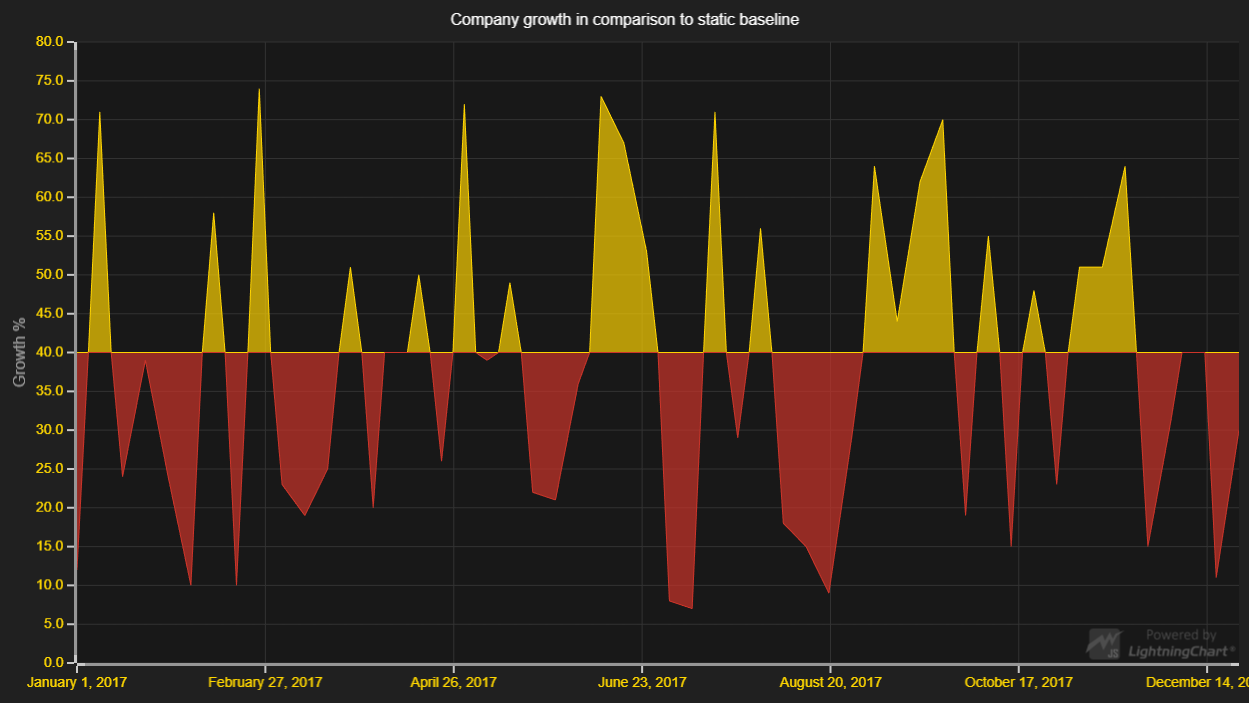
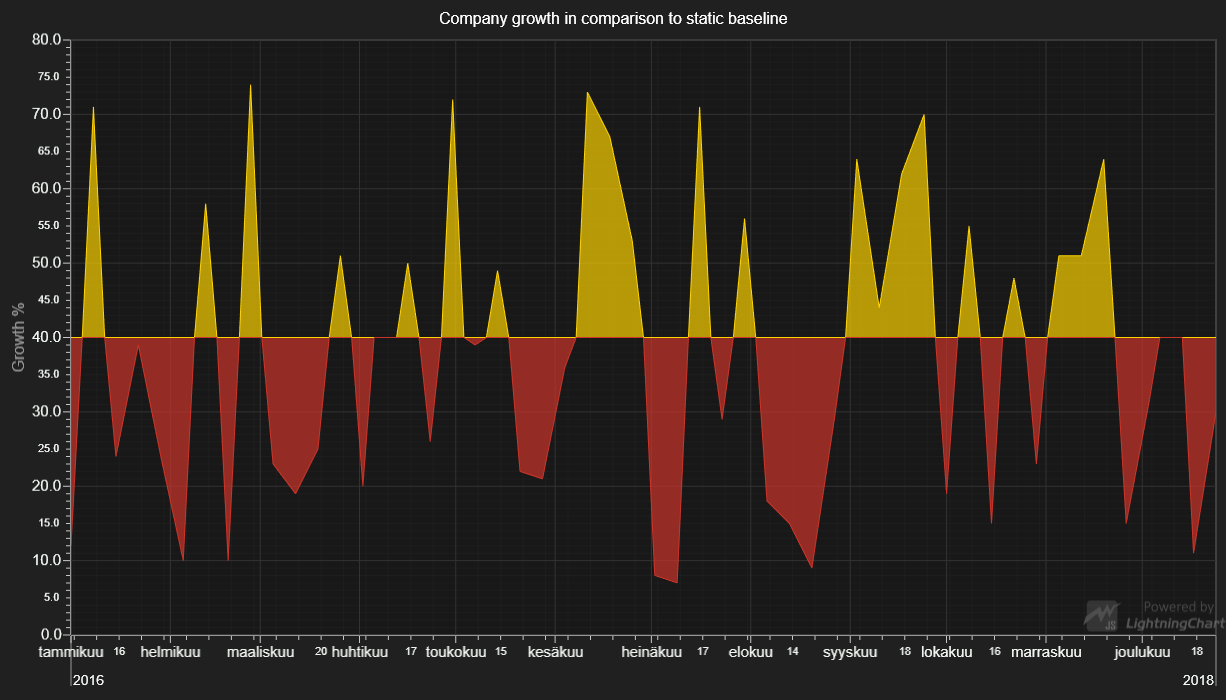
LCJS 2.0.0

diff --git a/src/index.js b/src/index.js
@@ -14,19 +14,20 @@ const {
     AreaSeriesTypes,
     AxisScrollStrategies,
     AxisTickStrategies,
-    AutoCursorModes
+    AutoCursorModes,
+    Themes
 } = lcjs
 
 // Decide on an origin for DateTime axis.
 const dateOrigin = new Date(2017, 0, 1)
 
 // Create a XY Chart.
-const xyChart = lightningChart()
-    .ChartXY({
-        defaultAxisXTickStrategy: AxisTickStrategies.DateTime(dateOrigin),
-    })
-    .setTitle('Company growth in comparison to static baseline')
-    .setAutoCursorMode(AutoCursorModes.onHover)
+const xyChart = lightningChart().ChartXY({
+    // theme: Themes.dark
+})
+xyChart.getDefaultAxisX().setTickStrategy(AxisTickStrategies.DateTime, (tickStrategy) => tickStrategy.setDateOrigin(dateOrigin))
+xyChart.setTitle('Company growth in comparison to static baseline')
+xyChart.setAutoCursorMode(AutoCursorModes.onHover)
 
 // set y-axis title
 const axisY = xyChart.getDefaultAxisY()

diff --git a/README.md b/README.md
@@ -59,10 +59,10 @@ series.add([
 
 ## API Links
 
-* XY cartesian chart: [ChartXY]
-* Area series: [AreaSeries]
-* Area type: [AreaSeriesTypes]
-* Bipolar Area series: [AreaSeriesBipolar]
+* [XY cartesian chart]
+* [Area series]
+* [Area type]
+* [Bipolar Area series]
 
 
 ## Support
@@ -86,8 +86,8 @@ Direct developer email support can be purchased through a [Support Plan][4] or b
 © Arction Ltd 2009-2020. All rights reserved.
 
 
-[ChartXY]: https://www.arction.com/lightningchart-js-api-documentation/v1.3.0/classes/chartxy.html
-[AreaSeries]: https://www.arction.com/lightningchart-js-api-documentation/v1.3.0/classes/chartxy.html#addareaseries
-[AreaSeriesTypes]: https://www.arction.com/lightningchart-js-api-documentation/v1.3.0/globals.html#areaseriestypes
-[AreaSeriesBipolar]: https://www.arction.com/lightningchart-js-api-documentation/v1.3.0/classes/areaseriesbipolar.html
+[XY cartesian chart]: https://www.arction.com/lightningchart-js-api-documentation/v2.0.0/classes/chartxy.html
+[Area series]: https://www.arction.com/lightningchart-js-api-documentation/v2.0.0/classes/chartxy.html#addareaseries
+[Area type]: https://www.arction.com/lightningchart-js-api-documentation/v2.0.0/globals.html#areaseriestypes
+[Bipolar Area series]: https://www.arction.com/lightningchart-js-api-documentation/v2.0.0/classes/areaseriesbipolar.html
 
